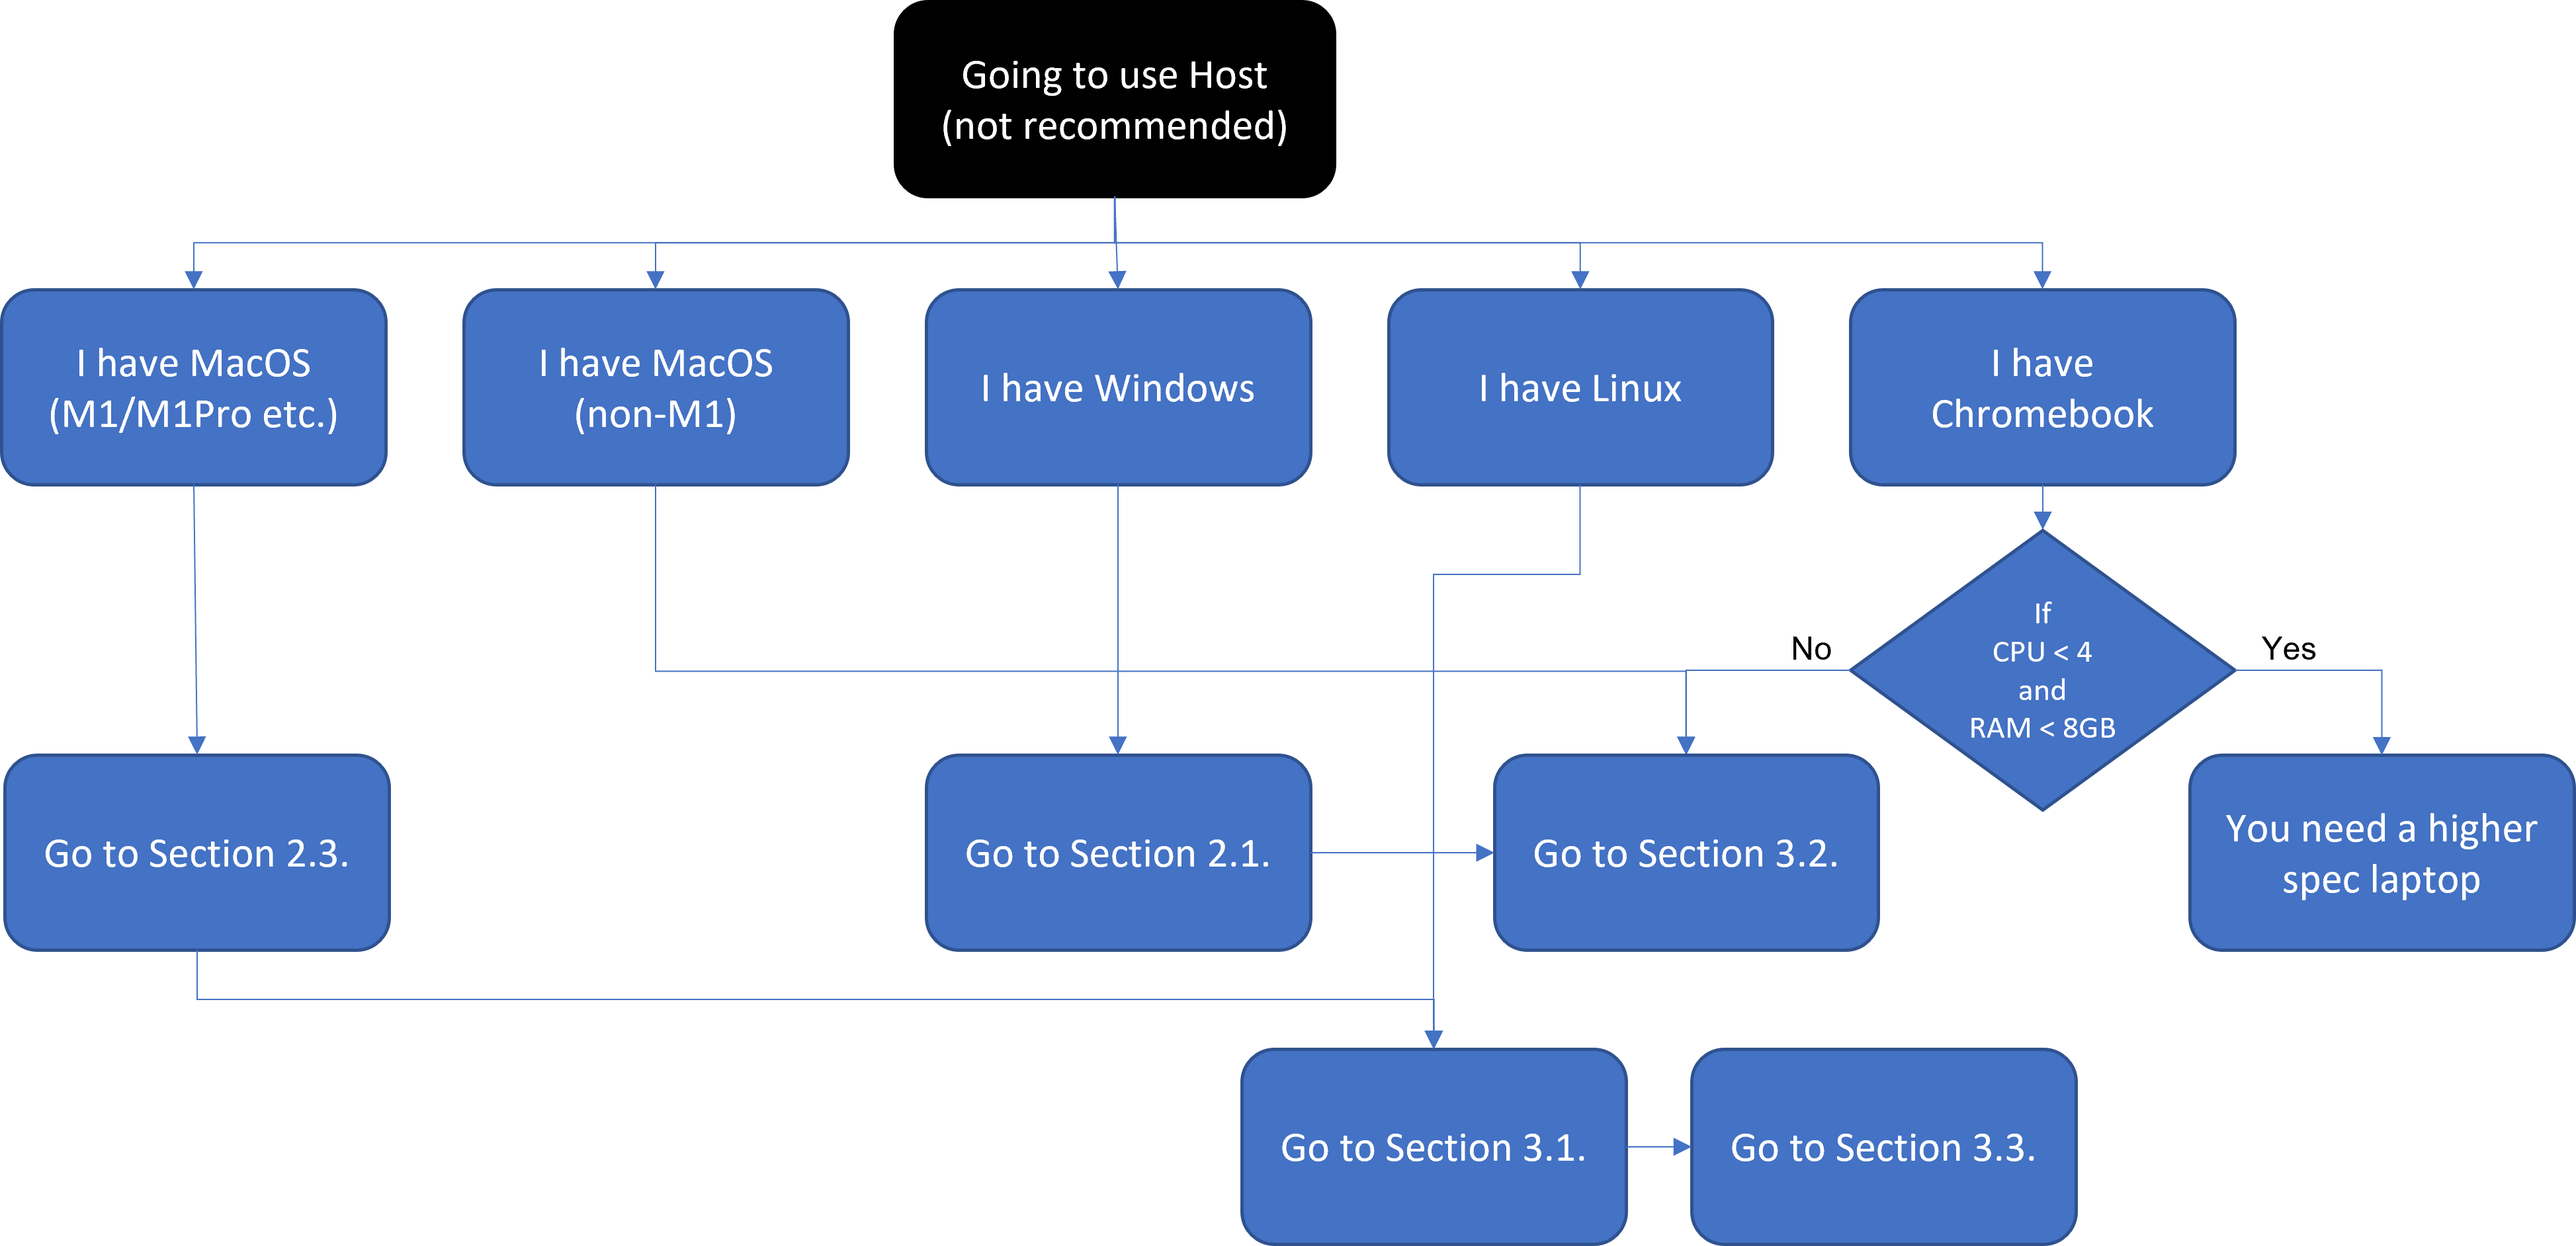
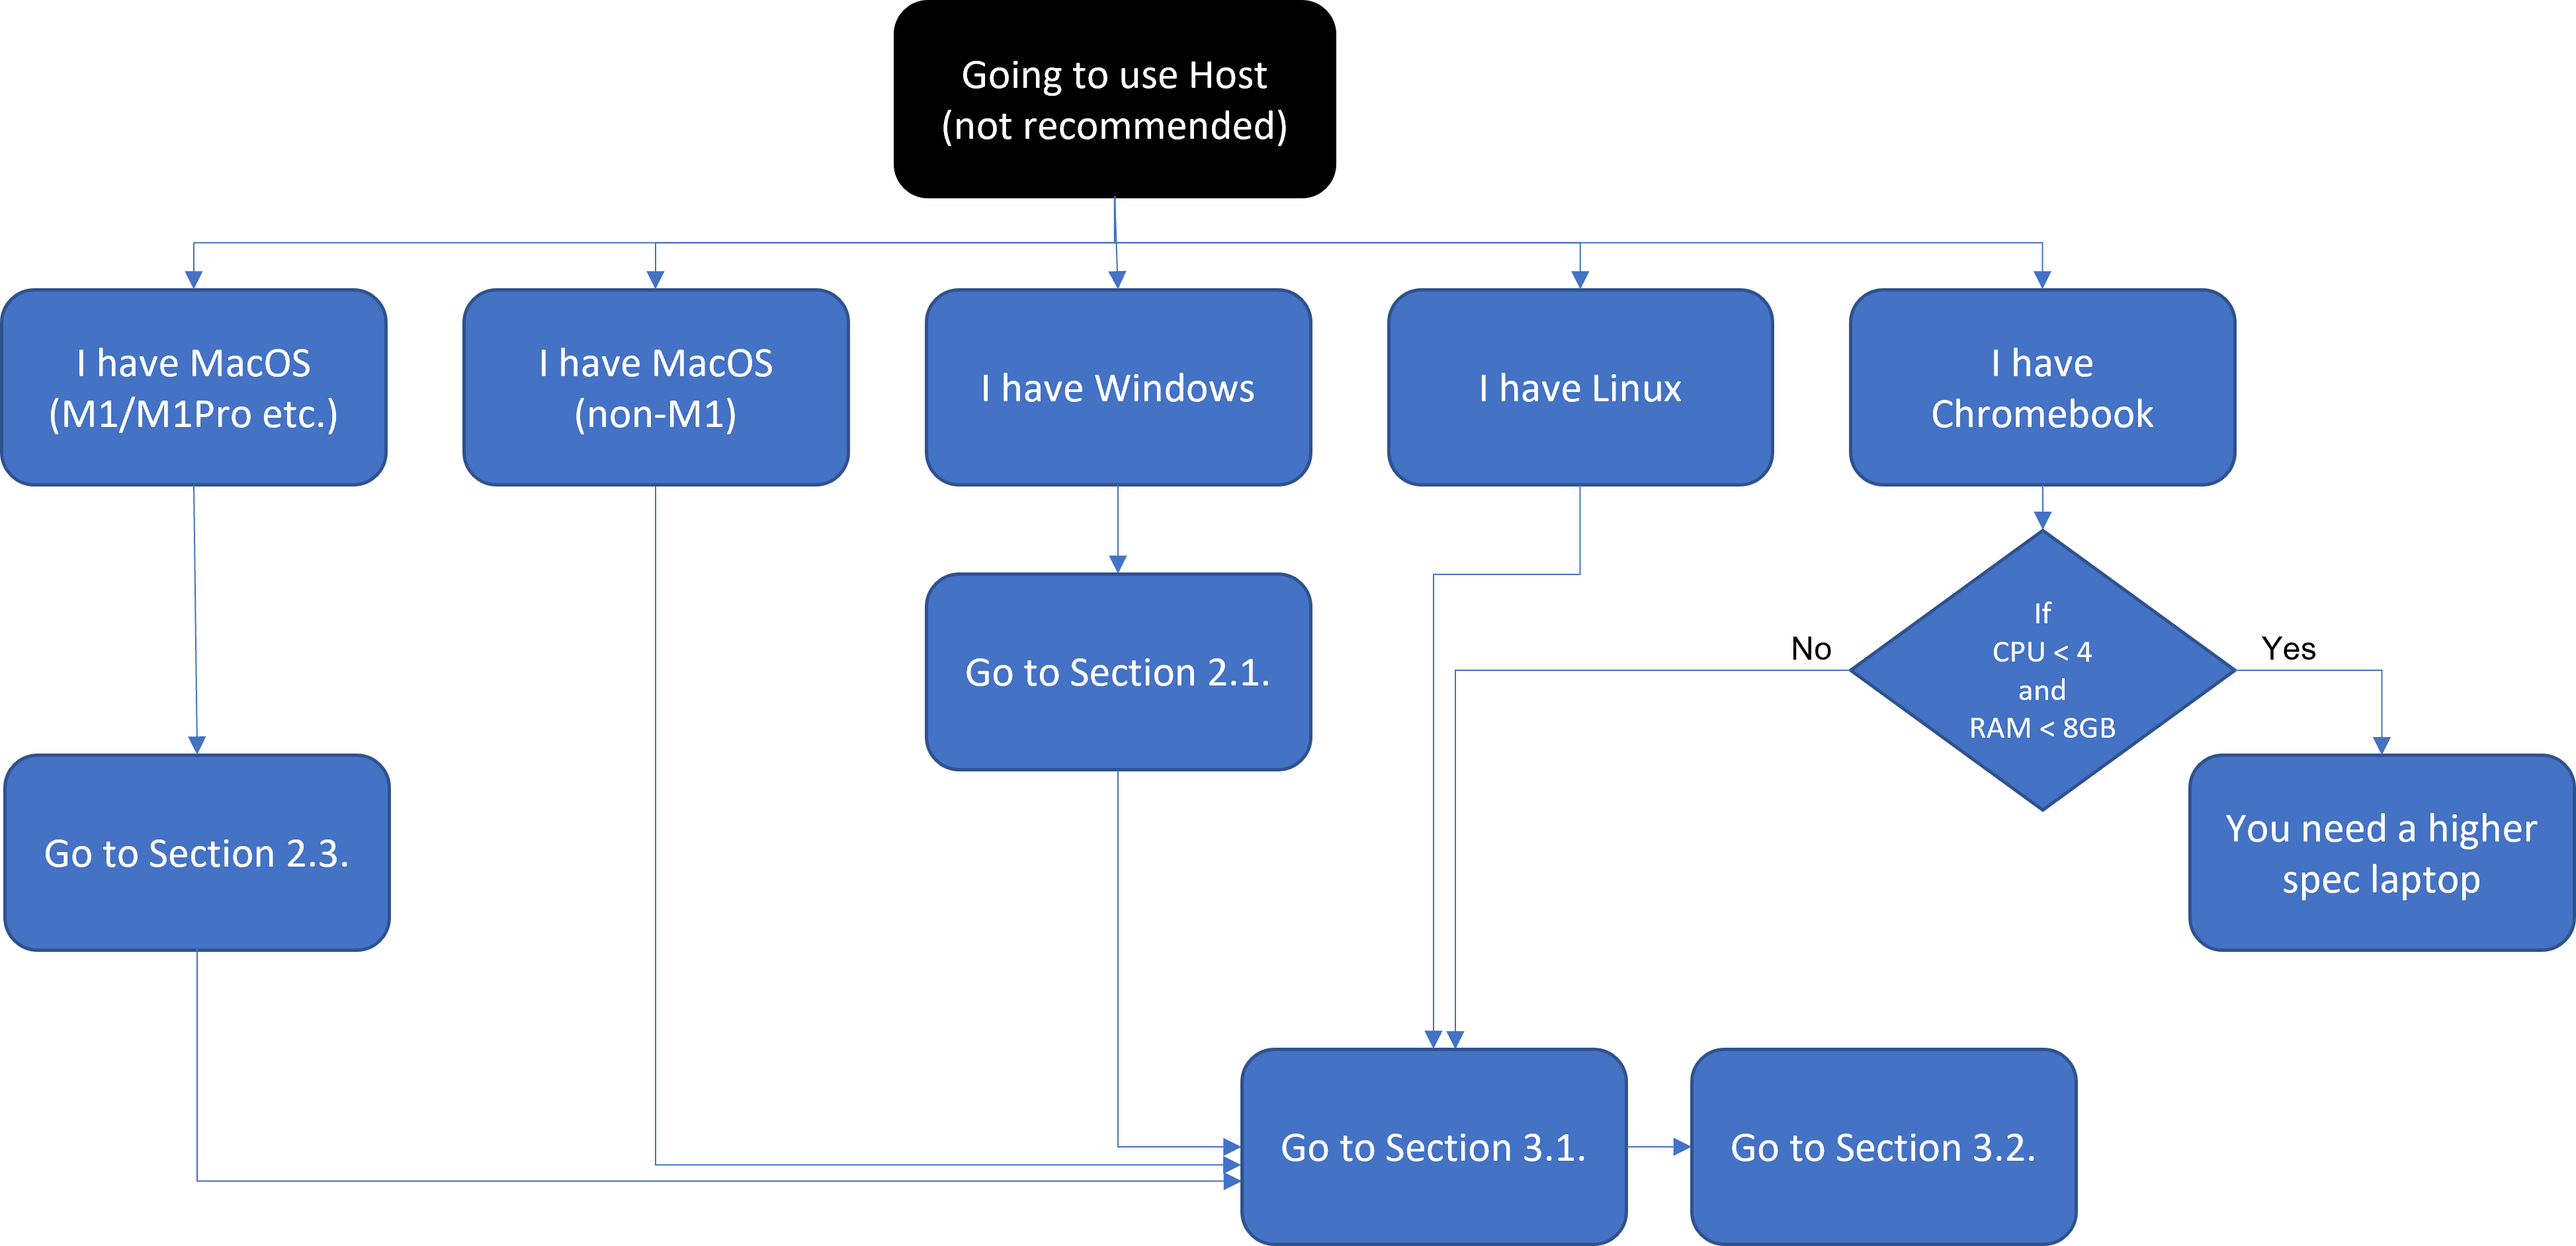
GitBook: [#127] No subject

Changed region(s): [[0.3418, 0.4308, 0.5282, 0.7692], [0.5593, 0.5846, 0.7458, 0.7692], [0.2486, 0.9231, 0.4972, 0.9538]]

diff --git a/cits1003-labs/setting-up-your-laptop.md b/cits1003-labs/setting-up-your-laptop.md
@@ -18,69 +18,69 @@ There are three different ways to setup your lab environment:
 
 ![](../.gitbook/assets/1003\_vm\_route.png)
 
-
-
 #### See below if you are planning to use Host.
 
 ![](../.gitbook/assets/1003\_host\_route.png)
 
+
+
 If you are planning to use the cloud, see [section 2.2.](setting-up-your-laptop.md#2.2.-running-windows-10-on-azure)
 
-## 1. Setting up Virtual Machine (VM) to do labs
+## 1. Setting up a Virtual Machine (VM) to do labs
 
 It is recommended to run the labs inside the VM for security (this adds another layer of protection, and as well as in an unlikely event where you break any configurations that could affect your host computer), especially for ones where we are handling live malware samples (e.g., labs 7 and 10). The malware samples are not capable of breaking out of docker containers to affect your host machine, but in general, it is a good idea to handle them inside a VM just in case you accidentally run them - this is also how it is done in the industry.&#x20;
 
 ### 1.1. Windows/MacOS (non-M1)/Linux
 
-There are many VM software you can use, such as VirtualBox, VMWare, etc. You can use any of those, but if you don't know where to start, you can start with [VirtualBox](https://www.virtualbox.org). Once you have installed the VirtualBox (or something equivalent), next we need to download the VM image we want to use. [Ubuntu ](https://ubuntu.com/download#download)or [Kali Linux](https://www.kali.org) are both good choices (download `iso` file or you will find a dedicated link that they provide for VM software). You can choose other lightweight versions like [Lubuntu](https://cdimage.ubuntu.com/lubuntu/releases/20.04/release/) if you prefer. When specifying the disk size, assign 20GB disk space. It won't fully occupy 20GB on your machine, as the size will dynamically adjust as you use it.
+There are many VM software you can use, such as VirtualBox, VMWare, etc. You can use any of those, but if you don't know where to start, you can start with [VirtualBox](https://www.virtualbox.org). If this isn't working for you, you could try [VMWare Workstation Player](https://www.vmware.com/au/products/workstation-player.html). Once you have installed the VirtualBox (or something equivalent), next we need to download the VM image we want to use. [Ubuntu ](https://ubuntu.com/download#download)or [Kali Linux](https://www.kali.org) are both good choices (download `iso` file or you will find a dedicated link that they provide for VM software). You can choose other lightweight versions like [Lubuntu](https://cdimage.ubuntu.com/lubuntu/releases/20.04/release/) if you prefer. When specifying the disk size, assign 20GB disk space. It won't fully occupy 20GB on your machine, as the size will dynamically adjust as you use it.
 
 {% hint style="info" %}
-FYI, I am using Lubuntu - 1CPU and 2GB RAM and albeit a bit slow, I have tested and ran all labs.
+FYI, I am using Lubuntu - 1CPU and 2GB RAM and albeit a bit slow, I have tested and ran all labs.&#x20;
+
+For the Ubuntu image, 2CPU and 4GB RAM is recommended.
 {% endhint %}
 
-For some labs, you would want to provide more RAM and CPU provided your computer has more RAM and CPU to work with. These can be done in the settings (but remember to shut down the VM to do this). However, the base settings would be sufficient for most (possibly increase the RAM to 2GB).
+For some labs, you would want to provide more RAM and CPU provided your computer has more RAM and CPU to work with. These can be done in the settings (but remember to shut down the VM to do this).&#x20;
 
 You might want to look up an installation guide online, such as this for Ubuntu: [https://ubuntu.com/tutorials/how-to-run-ubuntu-desktop-on-a-virtual-machine-using-virtualbox#1-overview](https://ubuntu.com/tutorials/how-to-run-ubuntu-desktop-on-a-virtual-machine-using-virtualbox#1-overview)
 
 {% hint style="info" %}
-When installing, always choose the light version/options available.
-{% endhint %}
+Sometimes the VM will freeze. You might want to reset (Machine -> Reset) and it _usually_ fixes the issue. If not, you can try shutting down and restarting the VM. You may have to repeat this a few times. Some common solutions include:
 
-{% hint style="info" %}
-Sometimes the VM will freeze. You might want to reset (Machine -> Reset) and it _usually_ fixes the issue. If not, you can try shutting down and restarting the VM. You may have to repeat this a few times.&#x20;
+* changing the graphics controller (trial and error)
+* adding more RAM (don't need more than 2 CPU)
+* adding more storage (20GB -> 30GB)
 {% endhint %}
 
 Once you have successfully installed and launched Ubuntu, it should bring up a GUI! It may ask you to update, which you should (improves user experience on VM). Once this is done, you can carry on with the labs as instructed.
 
-Now, go to [`Section 3.1. Installing Docker on VM`](setting-up-your-laptop.md#3.1.-installing-docker-on-ubuntu-on-your-vm)``
+Now, go to [`Section 3.1. Installing Docker Desktop`](setting-up-your-laptop.md#3.1.-installing-docker-on-ubuntu-on-your-vm)
 
 ### 1.2. M1 MacBook Users
 
-Unfortunately, there are currently a limited number of options running VMs on M1 (Apple Silicon) MacBooks due to technical issues and challenges. Fortunately, VMWare has released a free version, please check here:
+Unfortunately, there are currently a limited number of options running VMs on M1 (Apple Silicon) MacBooks due to technical issues and challenges. Fortunately, There are a few options for you to choose from.
+
+#### 1. VMWare has released a free version, please check here:
 
 [https://blogs.vmware.com/teamfusion/2021/09/fusion-for-m1-public-tech-preview-now-available.html](https://blogs.vmware.com/teamfusion/2021/09/fusion-for-m1-public-tech-preview-now-available.html)
 
-Virtualisation techniques are getting better as vendors are trying to address those issues, but it may still not work for the purpose of our labs. You will be safe to do most labs, but we highly recommend doing labs 7 and 10 with your friend or using a different laptop with VMs available if the VMWare option isn't working for you.&#x20;
+#### 2. UTM is also a possible VM solution:
+
+[https://mac.getutm.app/](https://mac.getutm.app)
+
+Virtualisation techniques are getting better as vendors are trying to address those issues, but it may still not work for the purpose of our labs. You will be safe to do most labs, but we highly recommend doing labs 7 and 10 with your friend or using a different laptop with VMs available if the above options are not working for you.&#x20;
 
 You are also recommended to install **Kali Linux**, as Ubuntu seems to be having issues that are not easily solvable currently.
 
-Now, go to [`Section 3.1. Installing Docker on VM`](setting-up-your-laptop.md#3.1.-installing-docker-on-ubuntu-on-your-vm)``
+Now, go to [`Section 3.1. Installing Docker Desktop`](setting-up-your-laptop.md#3.1.-installing-docker-on-ubuntu-on-your-vm)
 
 ## 2. Doing labs on your host machine
 
 You can skip section 2 entirely if you have setup a VM to do the labs. But later if you decided to do some labs on your host machine, you can come back here and follow the instructions.
 
-### 2.1. Windows users only: Installing Windows Subsystem for Linux (WSL)
+### 2.1. Windows
 
-This is a necessary step for the unit and also for running the Docker Desktop. The official document can be found here, and you are encouraged to read the documentation.&#x20;
-
-[https://docs.microsoft.com/en-us/windows/wsl/install](https://docs.microsoft.com/en-us/windows/wsl/install)
-
-{% hint style="info" %}
-You must be running Windows 10 version 2004 and higher (Build 19041 and higher) or Windows 11. If running an older version, go to the link above and follow the instructions.
-{% endhint %}
-
-Open **administrator** PowerShell or Windows Command Prompt and type in:
+The first step is to install WSL2 on Windows. Open **administrator** PowerShell or Windows Command Prompt and type in:
 
 ```
 wsl --install
@@ -90,27 +90,9 @@ Once complete, restart your machine.&#x20;
 
 To test this out, type `wsl` in the search bar and run the command prompt.
 
-{% hint style="info" %}
-There are a number of things that can go wrong doing this installation. Some common problems and their solutions are listed below.
+Now, go to [`Section 3.1. Installing Docker Desktop`](setting-up-your-laptop.md#3.1.-installing-docker-on-ubuntu-on-your-vm)
 
-Problem 1: You can't find cmd.exe or PowerShell:
-
-1. PowerShell can be installed from the Microsoft Store.
-2. You may be running in Windows S mode that will prevent you from running and installing apps - to deactivate this feature: To **turn off Windows** 10 **S Mode**, click the Start button then go to Settings > Update & Security > Activation. Select Go to the Store and click **Get** under the Switch **out of S Mode**
-
-Problem 2: You encounter problems installing and running WSL 2
-
-1. Follow the instructions here [https://docs.microsoft.com/en-us/windows/wsl/install-win10](https://docs.microsoft.com/en-us/windows/wsl/install-win10) the kernel update is the key thing
-2. Please note, WSL 2 requires at least **Windows 10 build 19041**.
-
-Problem 3: If Docker Desktop fails to start
-
-1. Clean up data and try again
-{% endhint %}
-
-Now you can go to [`Section 3.2. Installing Docker on Host`](setting-up-your-laptop.md#3.2.-installing-docker-on-your-host-machine)``
-
-### 2.2. Running Windows 10 on Azure
+### 2.2. Cloud desktop
 
 If you are unable to get your laptop/PC working, another option is to run Windows 10 on a Virtual Machine on Azure. However, if we are going to use a cloud (i.e., Azure), then you can install Ubuntu on it instead of putting on a Windows image and setting up WSL and docker. Nevertheless, to do this, you will need a student account created on https://portal.azure.com/.
 
@@ -122,11 +104,11 @@ You can create a VM using Windows 10 Pro 21 H1 and pick a Standard\_D2s\_V3 mach
 
 Once created, you can connect to the machine via remote desktop and then configure the machine as above.
 
-{% hint style="info" %}
+{% hint style="warning" %}
 Although you have credit when creating a student account, be careful with the machine and stop it running by using the console when you are not using it - that way you will not be charged for the time you are not using it.
 {% endhint %}
 
-Now you can treat this Windows 10 on Azure (or other VM) as your host. If you selected a Windows VM, then go to [Section 2.1. Installing WSL](setting-up-your-laptop.md#2.1.-windows-users-only-installing-windows-subsystem-for-linux-wsl), otherwise go to [`Section 3.2. Installing Docker on Host`](setting-up-your-laptop.md#3.2.-installing-docker-on-your-host-machine)``
+Now you can treat this cloud desktop as your host. If you selected a Windows VM, then go to [`Section 2.1. Windows`](setting-up-your-laptop.md#2.1.-windows-users-only-installing-windows-subsystem-for-linux-wsl), otherwise go to [`Section 3.1. Installing Docker Desktop`](setting-up-your-laptop.md#3.1.-installing-docker-on-ubuntu-on-your-vm)
 
 ### 2.3. Apple Mac M1 (Apple Silicon) Users: Enable Rosetta
 
@@ -139,9 +121,7 @@ Once this is done, you can proceed with installing and running Docker Desktop (b
 
 Whilst most of the Docker images in the labs can be run on the Apple M1, there may be warnings given about the platform (you may be able to avoid this warning by passing the argument `--platform linux/amd64`). We have created a multi-platform version for some images, which should be auto-selected when those images are used.
 
-Now, go to [`Section 3.1. Installing Docker on VM`](setting-up-your-laptop.md#3.1.-installing-docker-on-ubuntu-on-your-vm)``
-
-Installing Docker on VM works the same for installing Docker on Mac host.
+Now, go to [`Section 3.1. Installing Docker Desktop`](setting-up-your-laptop.md#3.1.-installing-docker-on-ubuntu-on-your-vm)
 
 ## 3. Installing and running Docker Desktop
 
@@ -149,13 +129,19 @@ We will be using a technology called _Docker Desktop_ to run different environme
 
 You can get a more comprehensive overview of what Docker is from here [https://docs.docker.com/get-started/overview/](https://docs.docker.com/get-started/overview/). To summarise though, Docker allows you to "package and run an application in a loosely isolated environment called a container". Containers are a way of virtualizing an environment by using the native operating system's functionality to isolate application environments.
 
-### 3.1. Installing Docker on VM (e.g., Ubuntu)
+### 3.1. Installing Docker Desktop (Windows/Mac/Linux)
 
 {% hint style="warning" %}
-Please note, the commands you are asked to type to install docker should be done inside the VM (i.e., terminal on Ubuntu), not on your host machine.
+If you have installed a VM, install Docker Desktop inside your VM.
 {% endhint %}
 
-Run the following two lines (line by line) of code in your VM's terminal and wait for it to install:
+The process for installing Docker Desktop is straightforward and involves using the installer for the particular operating system you have (from the drop-down menu, select the appropriate OS):
+
+{% embed url="https://www.docker.com/get-started" %}
+
+#### 3.1.1. Another method for Ubuntu
+
+You can also install docker on Ubuntu without the Docker Desktop. Run the following two lines (line by line) of code in your terminal and wait for it to install:
 
 ```
 curl -fsSL https://get.docker.com -o get-docker.sh
@@ -164,19 +150,9 @@ sudo sh get-docker.sh
 
 The full instruction can be found here: [https://docs.docker.com/engine/install/ubuntu/](https://docs.docker.com/engine/install/ubuntu/)
 
-Now go to [`Section 3.3. Testing Docker`](setting-up-your-laptop.md#3.3-testing-docker)``
+Now go to [`Section 3.2. Testing Docker`](setting-up-your-laptop.md#3.3-testing-docker)``
 
-### 3.2. Installing Docker on your Host machine
-
-You can skip this step if using the VM for labs.
-
-The process for installing Docker Desktop is straightforward and involves using the installer for the particular operating system you have:
-
-{% embed url="https://www.docker.com/get-started" %}
-
-Now go to [`Section 3.3. Testing Docker`](setting-up-your-laptop.md#3.3-testing-docker)``
-
-### 3.3 Testing Docker
+### 3.2. Testing Docker
 
 To test the environment, we will run a simple container that allows you to access a bash terminal. This allows you to enter commands that get executed within the container. You can only do what the container will let you do as it is a constrained environment.
 
